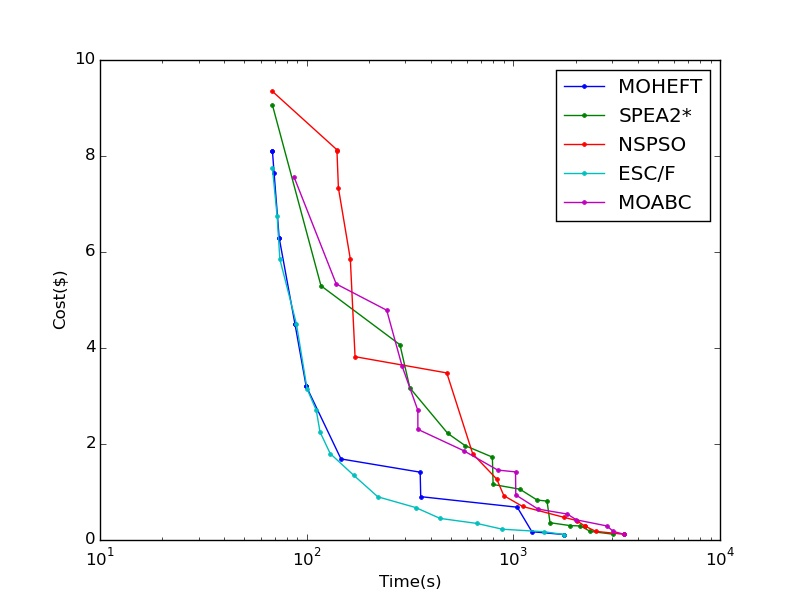
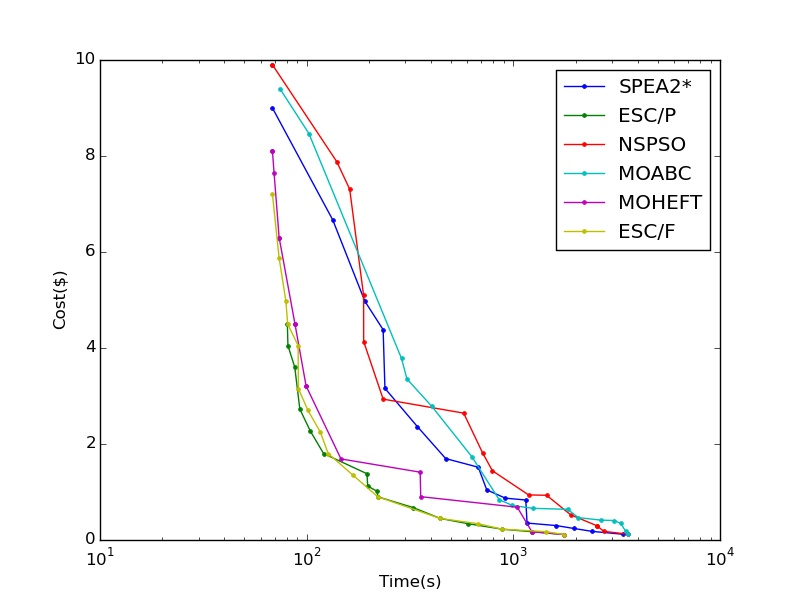
FFI PSO

Changed region(s): [[0.3125, 0.12, 0.7812, 0.9], [0.6875, 0.27, 0.9062, 0.42], [0.7812, 0.12, 0.875, 0.21]]

diff --git a/analysis/pegasus.py b/analysis/pegasus.py
@@ -3,27 +3,27 @@ WORKFLOWS = [
 	{"dag":"Montage_25"			,"task_number":"default", "path":"", "app":"Montage"},
 	{"dag":"Montage_50"			,"task_number":"default", "path":"", "app":"Montage"},
 	{"dag":"Montage_100"		,"task_number":"default", "path":"", "app":"Montage"},
-	# {"dag":"Montage_1000"		,"task_number":"default", "path":"", "app":"Montage"},
+	{"dag":"Montage_1000"		,"task_number":"default", "path":"", "app":"Montage"},
 
 	{"dag":"Epigenomics_24"		,"task_number":"default", "path":"", "app":"Epigenomics"},
 	{"dag":"Epigenomics_46"		,"task_number":"default", "path":"", "app":"Epigenomics"},
 	{"dag":"Epigenomics_100"	,"task_number":"default", "path":"", "app":"Epigenomics"},
-	# {"dag":"Epigenomics_997"	,"task_number":"default", "path":"", "app":"Epigenomics"},
+	{"dag":"Epigenomics_997"	,"task_number":"default", "path":"", "app":"Epigenomics"},
 
 	{"dag":"CyberShake_30"		,"task_number":"default", "path":"", "app":"CyberShake"},
 	{"dag":"CyberShake_50"		,"task_number":"default", "path":"", "app":"CyberShake"},
 	{"dag":"CyberShake_100"		,"task_number":"default", "path":"", "app":"CyberShake"},
-	# {"dag":"CyberShake_1000"	,"task_number":"default", "path":"", "app":"CyberShake"},
+	{"dag":"CyberShake_1000"	,"task_number":"default", "path":"", "app":"CyberShake"},
 
 	{"dag":"Sipht_30"			,"task_number":"default", "path":"", "app":"SIPHT"},
 	{"dag":"Sipht_60"			,"task_number":"default", "path":"", "app":"SIPHT"},
 	{"dag":"Sipht_100"			,"task_number":"default", "path":"", "app":"SIPHT"},
-	# {"dag":"Sipht_1000"			,"task_number":"default", "path":"", "app":"SIPHT"},
+	{"dag":"Sipht_1000"			,"task_number":"default", "path":"", "app":"SIPHT"},
 
 	{"dag":"Inspiral_30"		,"task_number":"default", "path":"", "app":"LIGO"},
 	{"dag":"Inspiral_50"		,"task_number":"default", "path":"", "app":"LIGO"},
 	{"dag":"Inspiral_100"		,"task_number":"default", "path":"", "app":"LIGO"},
-	# {"dag":"Inspiral_1000"		,"task_number":"default", "path":"", "app":"LIGO"},
+	{"dag":"Inspiral_1000"		,"task_number":"default", "path":"", "app":"LIGO"},
 
 
 	# By numbers of tasks	

diff --git a/c_src/pso.c b/c_src/pso.c
@@ -1,0 +1,34 @@
+//
+// Created by tefx on 9/29/15.
+//
+
+#include <stdlib.h>
+#include <time.h>
+#include <stdbool.h>
+#include "pso.h"
+
+bool initialized = false;
+
+double updateItem(double c1, double c2, int* gbest, int* pbest, int* p, int i, int j) {
+    double gb = (gbest[i] == j?1:0);
+    double pb = (pbest[i] == j?1:0);
+    double pp = (p[i] == j?1:0);
+    double r1 = (double)rand() / RAND_MAX;
+    double r2 = (double)rand() / RAND_MAX;
+    return c1 * r1 * (pb - pp) + c2 * r2 * (gb - pp);
+}
+
+void updateVelocity(int n, int m, double w, double c1, double c2, int* gbest, int* pbest, int* p, double* vel){
+    if (!initialized) {
+        srand((unsigned int)time(NULL));
+        initialized = true;
+    }
+
+    for (int i=0; i<m*n; i++) vel[i] *= w;
+
+    for (int i=0; i<n; i++) {
+        vel[i*m+gbest[i]] += updateItem(c1, c2, gbest, pbest, p, i, gbest[i]);
+        vel[i*m+pbest[i]] += updateItem(c1, c2, gbest, pbest, p, i, pbest[i]);
+        vel[i*m+p[i]] += updateItem(c1, c2, gbest, pbest, p, i, p[i]);
+    }
+}

diff --git a/analysis/config.py b/analysis/config.py
@@ -18,18 +18,18 @@ args_defaults = {
 }
 
 exp_defaults = {
-    "times" : 2,
+    "times" : 1,
     "args" : {}
 }
 
 experiments = {
     "SPEA2*":{"cmd":"spea2_c0",},
-    # "ESC/P":{"cmd":"spea2_c3_p",},
+    "ESC/P":{"cmd":"spea2_c3_p",},
     # "ESC/NH":{"cmd":"spea2_c3_nh",},
     "ESC/F":{"cmd":"spea2_c3_f",},
     "MOABC":{"cmd":"moabc"},
-    "NSPSO":{"cmd":"nspso"},
-    "MOHEFT":{"times":1,"cmd":"moheft"},
+    # "NSPSO":{"cmd":"nspso"},
+    # "MOHEFT":{"times":1,"cmd":"moheft"},
 }
 
 ## DAG
@@ -72,7 +72,7 @@ query_cond = {
         "ESC/P",
         "ESC/NH",
         "ESC/F",
-        "MOHEFT",
+        # "MOHEFT",
         "MOABC",
         "NSPSO"
     ],

diff --git a/c_src/pso.h b/c_src/pso.h
@@ -1,0 +1,10 @@
+//
+// Created by tefx on 9/29/15.
+//
+
+#ifndef MOWSC_PSO_H
+#define MOWSC_PSO_H
+
+void updateVelocity(int n, int m, double w, double c1, double c2, int* gbest, int* pbest, int* p, double* vel);
+
+#endif //MOWSC_PSO_H
